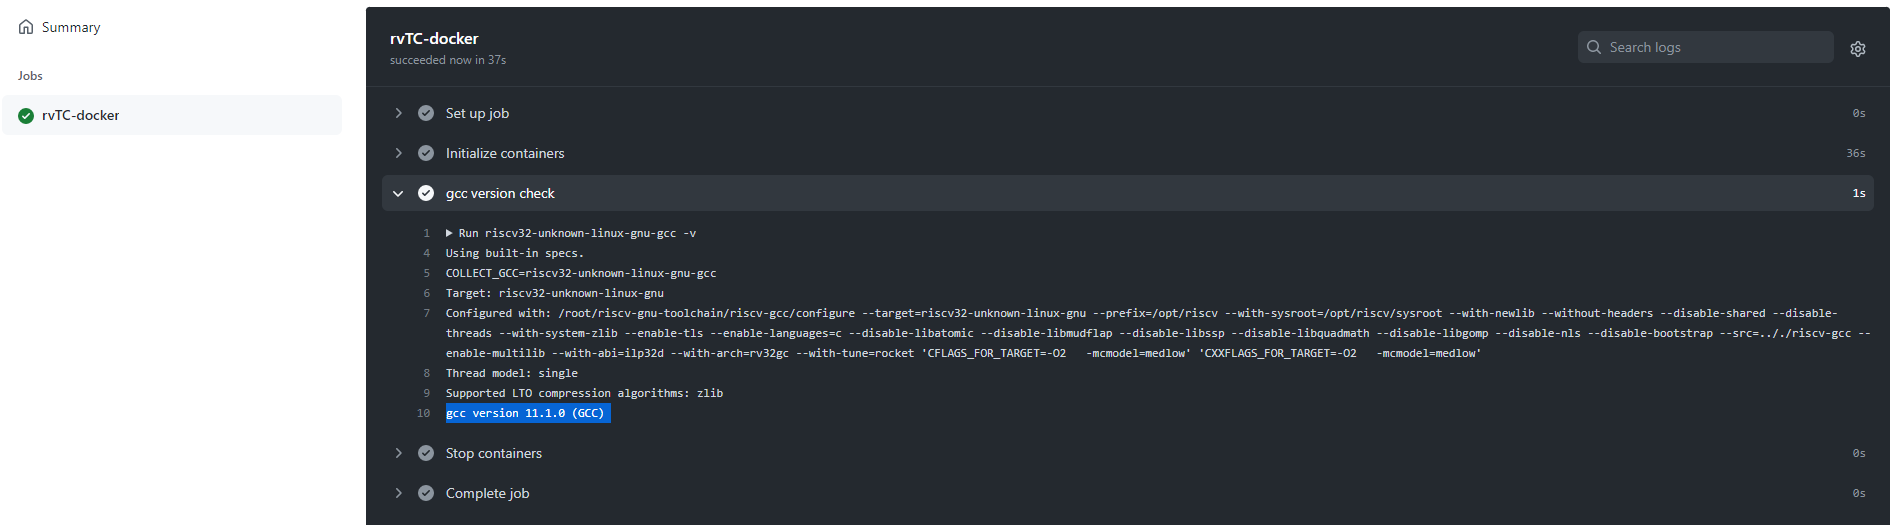
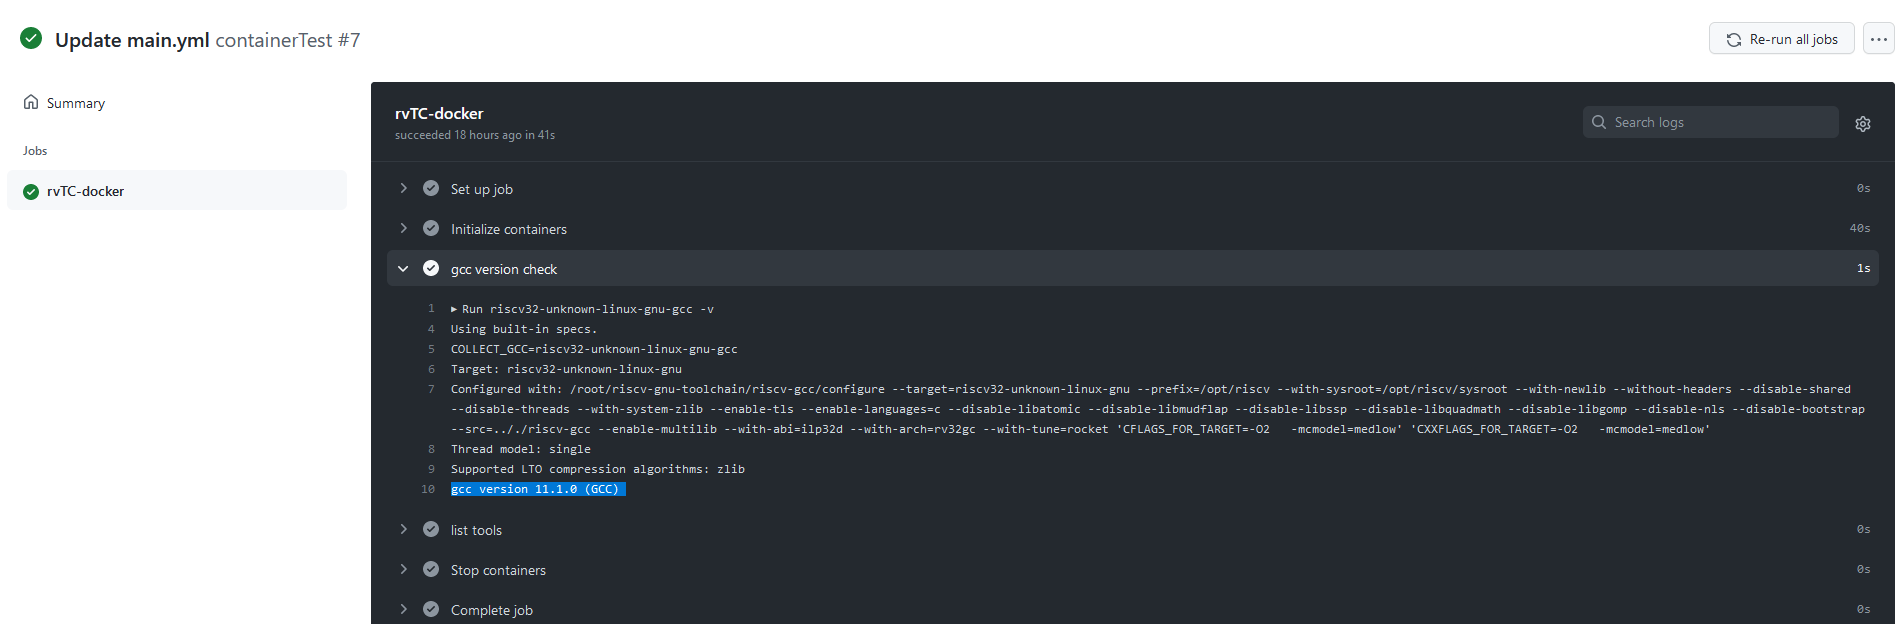
updates to Docker101

diff --git a/_posts/2022-01-15-Docker101_for_embedded_systems_DevOps.md b/_posts/2022-01-15-Docker101_for_embedded_systems_DevOps.md
@@ -88,7 +88,7 @@ A docker image is built by layering different images. The base image is typicall
 <col style="width: 79%" />
 </colgroup>
 <thead>
-<tr class="header">
+<tr class="odd">
 <td>-d</td>
 <td>Run in detached mode</td>
 </tr>
@@ -122,7 +122,7 @@ A docker image is built by layering different images. The base image is typicall
 <col style="width: 79%" />
 </colgroup>
 <thead>
-<tr class="header">
+<tr class="odd">
 <td>-a</td>
 <td>List even stopped containers</td>
 </tr>
@@ -152,7 +152,7 @@ A docker image is built by layering different images. The base image is typicall
 <col style="width: 79%" />
 </colgroup>
 <thead>
-<tr class="header">
+<tr class="odd">
 <td>-it</td>
 <td>Two arguments i and t are used together for an interactive terminal.</td>
 </tr>
@@ -273,15 +273,12 @@ Let’s consider a development ecosystem to enable developers and CI to use a st
     docker run -it -v /home/embeddedinn/docker/volume/toolInstall:/opt/riscv ubuntu:20.04 /bin/bash
 
     sudo apt-get install autoconf automake autotools-dev curl python3 libmpc-dev libmpfr-dev bgmp-dev gawk build-essential bison flex texinfo gperf libtool patchutils bc zlib1g-dev bexpat-dev git
-
+    
     git clone https://github.com/riscv/riscv-gnu-toolchain
-
+    
     cd riscv-gnu-toolchain
-
     ./configure --prefix=/opt/riscv --with-arch=rv32gc --with-abi=ilp32d --enable-multilib
-
     make -j$(nproc)
-
     make -j$(nproc) linux
     ```
 
@@ -340,7 +337,7 @@ Microchip MPLABX project builds can be automated in a CI/CD pipeline using a Doc
 {% include image.html
 	img="images/posts/dockerDevops/image1.png"
 	width="640"
-	caption="(source: Device tree for dummies)"
+	caption="MPLAB X CI/CD Wizard"
 %}
 
 A sample Dockerfile generated using the wizard looks like this:
@@ -412,7 +409,7 @@ Alternately, we can include git into the Docker image, clone the repo into the c
 {% include image.html
 	img="images/posts/dockerDevops/image2.png"
 	width="640"
-	caption="(source: Device tree for dummies)"
+	caption="Container with the new RISC-V toolchain"
 %}
 
 If you want to compile a codebase in your local machine with this toolchain, you can mount the volume into the container while running it.
@@ -435,10 +432,11 @@ jobs:
             run: riscv32-unknown-linux-gnu-gcc -v
 ```
 
+The execution result shows that the compiler is useable in the Action.
+
 {% include image.html
 	img="images/posts/dockerDevops/image3.png"
-	width="640"
-	caption="(source: Device tree for dummies)"
+	caption="Github Actions result"
 %}
 
-Though this file lists the tool version, we can use additional run commands to clone your code, compile it, and run tests.
+Though this file simply lists the tool version, we can use additional run commands to clone your code, compile it, and run tests.
